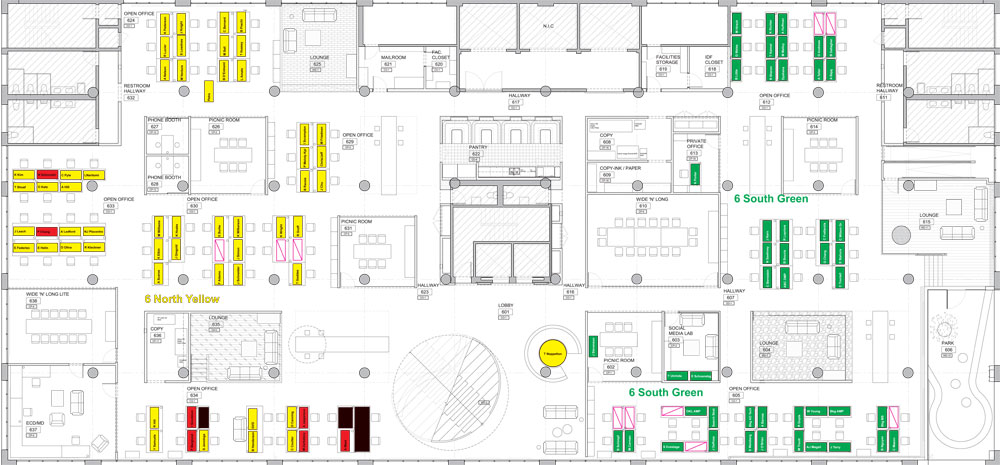
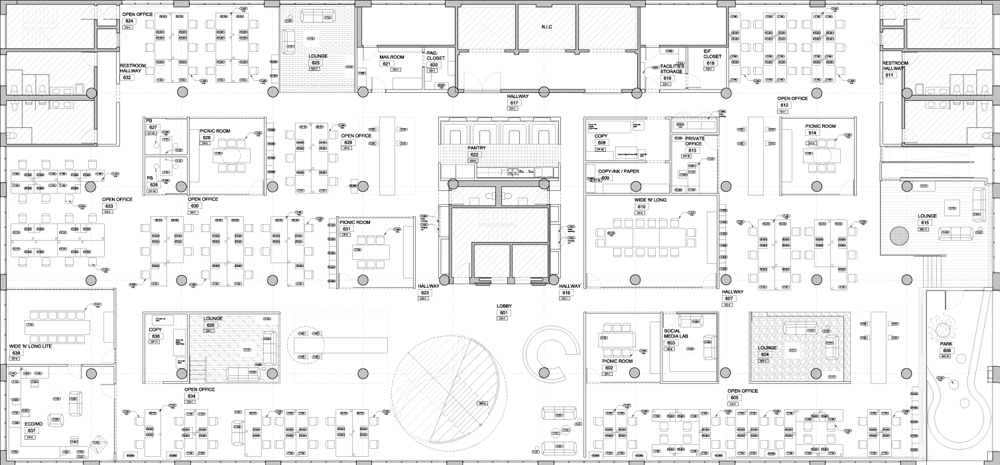
Fixing admin view

Changed region(s): [[0.0, 0.0, 1.0, 1.0], [0.341, 0.7828, 0.372, 0.8129]]

diff --git a/css/app.css b/css/app.css
@@ -61,7 +61,7 @@ body {
 }
 
 .admin .map.floor_6 {
-	background: url(../upload/6-user.jpg) no-repeat; 
+	background: url(../upload/6-admin.jpg) no-repeat; 
   -webkit-background-size: 100% auto;
   -moz-background-size: 100% auto;
   -o-background-size: 100% auto;
@@ -69,7 +69,7 @@ body {
 }
 
 .admin .map.floor_7 {
-	background: url(../upload/7-user.jpg) no-repeat; 
+	background: url(../upload/7-admin.jpg) no-repeat; 
   -webkit-background-size: 100% auto;
   -moz-background-size: 100% auto;
   -o-background-size: 100% auto;
@@ -77,7 +77,7 @@ body {
 }
 
 .admin .map.floor_8 {
-	background: url(../upload/8-user.jpg) no-repeat; 
+	background: url(../upload/8-admin.jpg) no-repeat; 
   -webkit-background-size: 100% auto;
   -moz-background-size: 100% auto;
   -o-background-size: 100% auto;
@@ -480,7 +480,7 @@ input {
 
 #savebtn {
 	left: 600px;
-	top: 73px;
+	top: 80px;
 	position: absolute;
 }
 

diff --git a/partials/admin.html b/partials/admin.html
@@ -21,6 +21,7 @@
           Filters:
           <li id="6" ng-class="{selected: query.floor == 6}" ng-click="query.floor = 6;">6</li>
           <li id="7" ng-class="{selected: query.floor == 7}" ng-click="query.floor = 7;">7</li>
+          <li id="8" ng-class="{selected: query.floor == 8}" ng-click="query.floor = 8;">8</li>
         </div>
         <div>
           <li id="seats" ng-class="{selected: query.type == 'seat'}" ng-click="query.name = ''; query.type = 'seat'; turned=true;">Seats</li>
